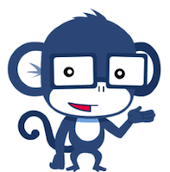
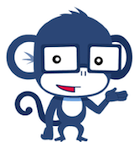
fixed lichess link and shrunk images to 140px

diff --git a/_pages/online.md b/_pages/online.md
@@ -9,7 +9,7 @@ featured_image: /images/my_background_green.jpg
 
 <a href="https://www.chesskid.com"><img src="images/chesskid.jpeg" class="Cliff" style="float:left; clear:left;">ChessKid.com</a> is a subsidiary of Chess.com. This site is dedicated to being a safe place for kids to learn and play chess. Junior members (and their parents) can set up free account here too. There are safeguards on this site to shield younger players from some of the more "free-spirited" players that you might encounter otherwise. We also have a [club page](https://www.chesskid.com/club/home/ferris-knights) for our junior members on ChessKid.
 
-<a href="https://www.lichess.com"><img src="images/lichess.png" class="Cliff" style="float:left; clear:left;">Lichess.com</a> is another great place to play online. You can set up an account for free here too. Although it has fewer players and games played than Chess.com, it is very popular online. There is a [Big Rapids Chess](https://lichess.org/team/big-rapids-chess) team page available here too.
+<a href="https://www.lichess.org"><img src="images/lichess.png" class="Cliff" style="float:left; clear:left;">Lichess.org</a> is another great place to play online. You can set up an account for free here too. Although it has fewer players and games played than Chess.com, it is very popular online. There is a [Big Rapids Chess](https://lichess.org/team/big-rapids-chess) team page available here too.
 
 <a href="https://www.chessable.com"><img src="images/chessable.png" class="Cliff" style="float:left; clear:left;">Chessable.com</a> is one of the best places to learn about chess online. This site provides interactive chess instruction books (some for free and others for purchase). You can create a free account to begin. The books walk you through various tactics, puzzles, endgames, or openings. You can read and then practice what you have learned right in the book. This site is highly recommended.
 
